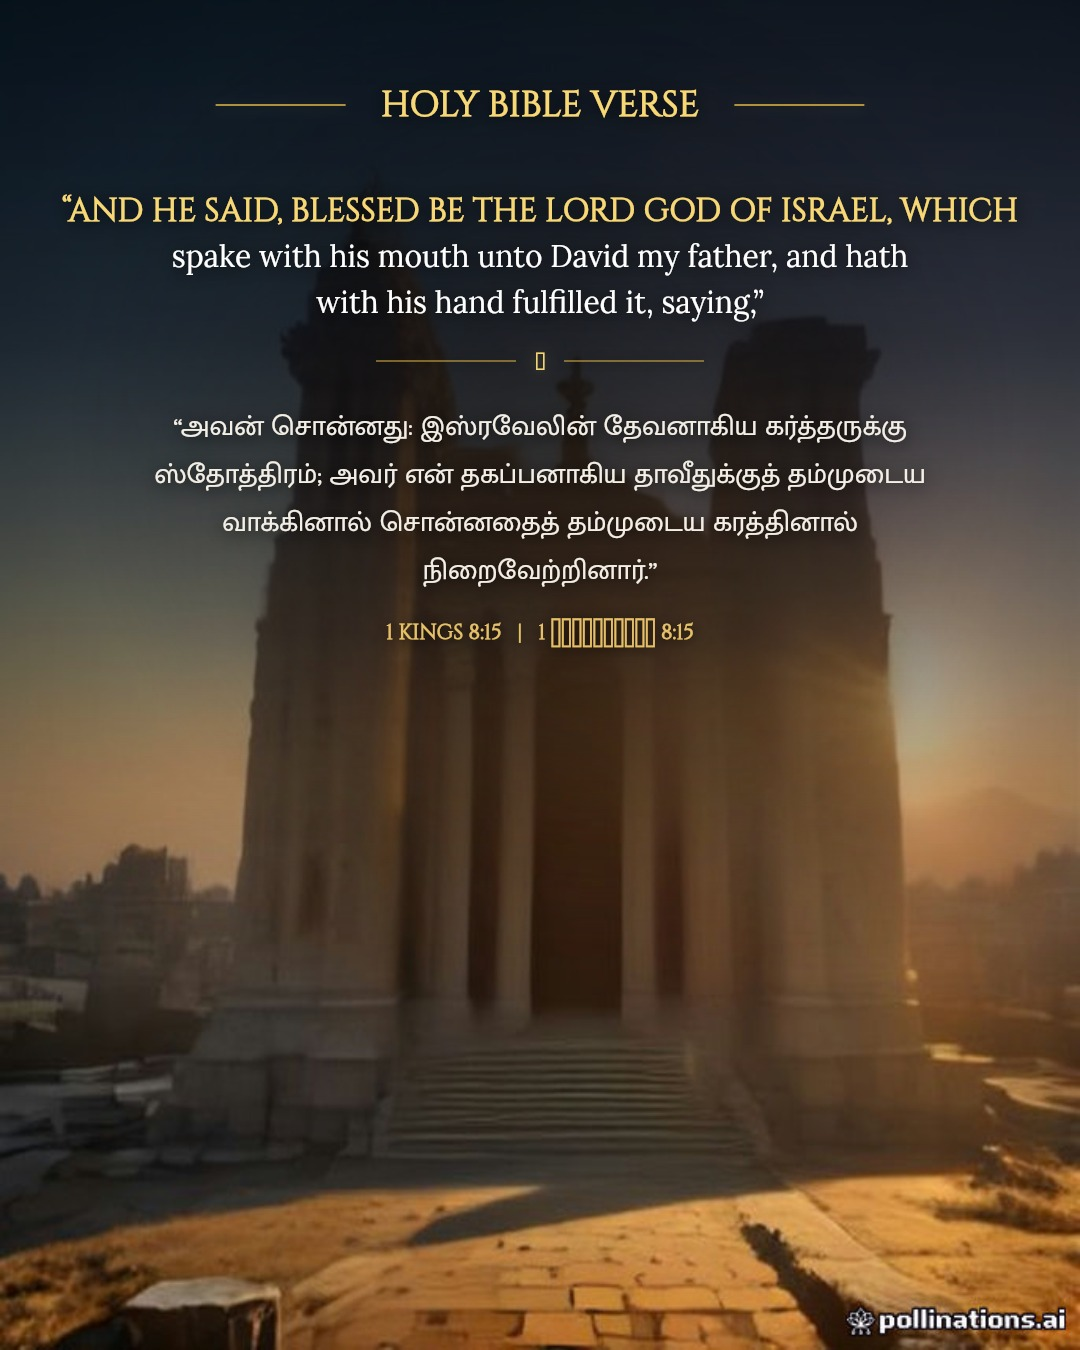
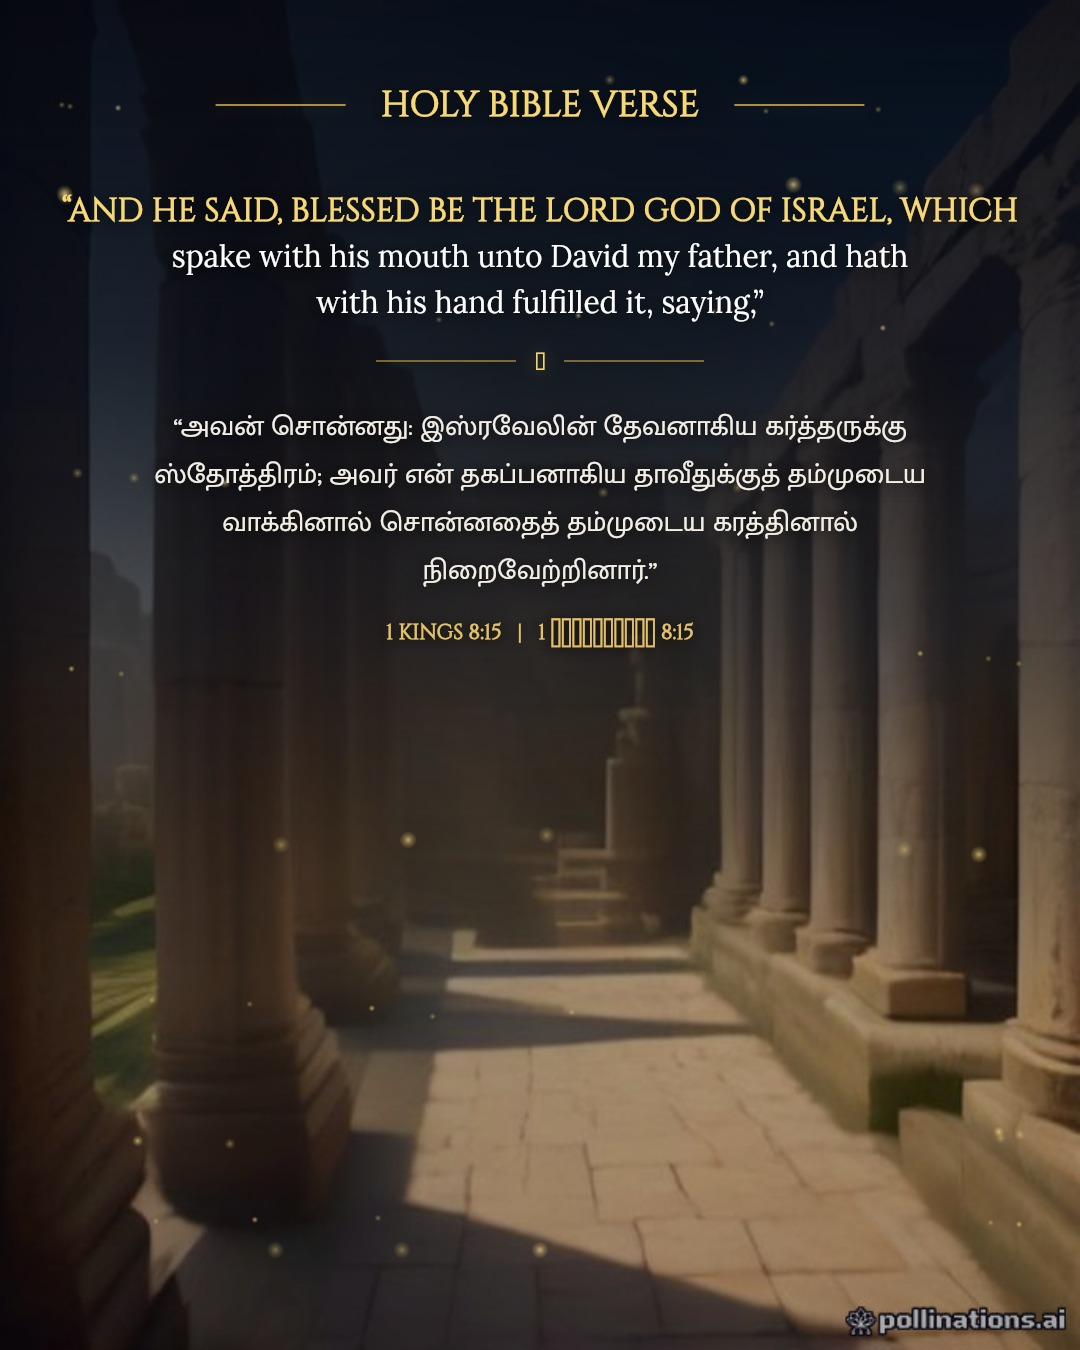
fix: resolved tagsString.split error and upgraded prompt engine to masterclass biblical architecture specification

diff --git a/services/geminiService.js b/services/geminiService.js
@@ -11,7 +11,7 @@ class GeminiService {
   }
 
   /**
-   * Generates custom verse-matched scene prompt, sacred highlights, and viral caption
+   * Generates custom verse-matched scene prompt matching user's exact masterclass specification
    */
   async analyzeVerse(verseData, language = 'both') {
     const scriptureText = language === 'ta'
@@ -22,7 +22,7 @@ class GeminiService {
 
     const reference = language === 'ta'
       ? verseData.referenceTa
-      : verseData.referenceEn.toUpperCase();
+      : `${verseData.referenceEn.toUpperCase()} | ${verseData.referenceTa}`;
 
     // If no API key is provided, return intelligent contextual fallback
     if (!this.apiKey) {
@@ -30,51 +30,53 @@ class GeminiService {
       return this._generateFallbackResponse(verseData, language);
     }
 
-    const systemPrompt = `You are a world-class Christian creative director and cinematic biblical illustrator.
-Given a Bible verse, carefully analyze its historical context, story, imagery, and sacred meaning.
-Generate a strict JSON response with:
-1. "imagePrompt": A highly detailed, realistic, cinematic 3D digital art prompt (4:5 vertical aspect ratio).
-   CRITICAL COMPOSITION RULES:
-   - LOWER HALF (bottom 50%): Must contain a breathtaking panoramic physical scene SPECIFIC TO THIS VERSE'S EXACT BIBLICAL THEME.
-     Examples:
-     * 1 Kings 8:15 -> "Panoramic view of ancient Solomon Temple in Jerusalem at golden hour sunrise, stone balustrade in foreground with a royal golden crown on blue velvet, glowing morning light illuminating stone columns and hills."
-     * Psalm 23 -> "Lush green rolling pastures of Judea at morning sunrise, crystal-clear still stream reflecting golden sky, ancient shepherd staff on a stone."
-     * Matthew 8 (Peace in storm) -> "Stormy Sea of Galilee with dramatic crashing waves parting around a wooden fishing boat bathed in a supernatural shaft of celestial golden light."
-     * John 3:16 / Cross -> "Majestic glowing radiant cross atop Mount Calvary at celestial dawn, rolling misty valleys below, ethereal golden god rays."
-     * Genesis 1 -> "Creation of light, dramatic planet earth forming in the cosmos with radiant golden light piercing primordial cosmic mist."
-     * Exodus 14 -> "Parted Red Sea towering like crystalline walls of water with the divine pillar of fire guiding the pathway."
-   - UPPER HALF (top 50%): Must consist of deep, dark, dramatic volumetric storm clouds with intense golden god rays breaking through, leaving clean negative space for centered typography.
-   - STYLE: "Cinematic lighting, god rays from top right, 8k resolution, photorealistic, rich warm golden hour colors, biblical masterpiece."
+    const systemPrompt = `You are an elite Christian creative director, theological scholar, and master biblical illustrator.
+Given a Bible verse, carefully study its exact historical context, spiritual meaning, and divine theme.
 
-2. "highlightEn": The key sacred words or divine blessing phrase to highlight in BOLD GOLD (e.g. "BLESSED BE THE LORD GOD OF ISRAEL", "THE LORD IS MY SHEPHERD", "FOR GOD SO LOVED THE WORLD", "I CAN DO ALL THINGS").
-3. "highlightTa": The corresponding sacred words or divine blessing phrase in Tamil to highlight in BOLD GOLD (e.g. "இஸ்ரவேலின் தேவனாகிய கர்த்தருக்கு ஸ்தோத்திரம்", "கர்த்தர் என் மேய்ப்பராயிருக்கிறார்", "தேவன் உலகத்தில் அன்புகூர்ந்தார்").
-4. "caption": A high-engagement, spiritually uplifting Instagram caption with verse takeaway and daily prayer.
-5. "trendingHashtags": 15-20 top trending Christian hashtags for Instagram.
+Generate a strict JSON response following this EXACT MASTERCLASS ARCHITECTURE:
+
+1. "imagePrompt": A highly detailed, photorealistic 8K text-to-image prompt (4:5 vertical aspect ratio).
+   MUST FOLLOW THESE STRICT CINEMATIC RULES:
+   - "BACKGROUND AND SPIRITUAL ATMOSPHERE: Create a breathtaking ancient biblical landscape inspired by [specific historical biblical location matching the verse - e.g. Solomon's Temple in Jerusalem, Mount Sinai, green pastures of Bethlehem, Sea of Galilee at sunrise, Garden of Gethsemane, ancient Roman road, celestial new Jerusalem]."
+   - "LOWER 45%: Show majestic biblical architecture or landscape in the distance, warm divine light illuminating the stone sanctuaries or peaceful waters, subtle floating golden light particles, distant misty mountains, and a peaceful sacred atmosphere representing God's faithfulness."
+   - "UPPER 55%: Deep dramatic dark navy blue and royal blue volumetric clouds with heavenly golden rays breaking through from the upper right, leaving deep dark clean negative space for scripture typography."
+   - "COLOR PALETTE: Cinematic combination of deep navy blue, royal blue, antique gold, and warm ivory. Photorealistic, reverent, majestic, spiritually uplifting, realistic volumetric lighting, extraordinary atmospheric depth."
+
+2. "highlightEn": The exact sacred phrase in the English verse to highlight in subtle golden lettering (e.g., "BLESSED BE THE LORD GOD OF ISRAEL", "THE LORD IS MY SHEPHERD", "FOR GOD SO LOVED THE WORLD", "I CAN DO ALL THINGS THROUGH CHRIST").
+
+3. "highlightTa": The corresponding exact sacred phrase in the Tamil verse to highlight in subtle golden lettering (e.g., "இஸ்ரவேலின் தேவனாகிய கர்த்தருக்கு ஸ்தோத்திரம்", "கர்த்தர் என் மேய்ப்பராயிருக்கிறார்", "தேவன் உலகத்தில் அன்புகூர்ந்தார்").
+
+4. "caption": An inspirational devotional takeaway connecting this verse to daily life, a reflection on God's promises, and a short heartfelt prayer.
+
+5. "trendingHashtags": A list of 15-20 top trending Christian hashtags for Instagram.
 
 Return ONLY the raw JSON object, without markdown code fences or explanation.`;
 
-    const userPrompt = `Verse Reference: ${verseData.referenceEn} (${verseData.referenceTa})
+    const userPrompt = `Verse Reference: ${verseData.referenceEn} | ${verseData.referenceTa}
 English Text: "${verseData.textEn}"
 Tamil Text: "${verseData.textTa}"
-Selected Language for Poster: ${language}`;
+Selected Language: ${language}`;
 
     try {
       const rawText = await this._callRestApi(systemPrompt, userPrompt);
       const cleanJson = rawText.replace(/```json/g, '').replace(/```/g, '').trim();
       const parsed = JSON.parse(cleanJson);
 
+      let tags = parsed.trendingHashtags || this._createDefaultHashtags(verseData);
+      const hashtagsString = Array.isArray(tags) ? tags.join(' ') : String(tags);
+
       const fullCaption = `${parsed.caption || this._createDefaultCaption(verseData)}\n\n` +
         `• • •\n` +
-        `${parsed.trendingHashtags || this._createDefaultHashtags(verseData)}`;
+        `${hashtagsString}`;
 
       return {
-        imagePrompt: parsed.imagePrompt,
+        imagePrompt: parsed.imagePrompt || this._generateScenePromptForVerse(verseData),
         highlightEn: parsed.highlightEn || this._detectHighlightEn(verseData.textEn),
         highlightTa: parsed.highlightTa || this._detectHighlightTa(verseData.textTa),
         referenceEn: verseData.referenceEn,
         referenceTa: verseData.referenceTa,
         captionText: parsed.caption || this._createDefaultCaption(verseData),
-        trendingHashtags: parsed.trendingHashtags || this._createDefaultHashtags(verseData),
+        trendingHashtags: hashtagsString,
         fullInstagramCaption: fullCaption,
         language
       };
@@ -121,13 +123,40 @@ Selected Language for Poster: ${language}`;
     throw lastErr || new Error('All Gemini model endpoints failed.');
   }
 
+  _generateScenePromptForVerse(verseData) {
+    const text = verseData.textEn.toLowerCase();
+    const ref = verseData.referenceEn.toLowerCase();
+
+    let theme = "ancient biblical landscape inspired by Solomon's Temple in Jerusalem";
+    let lowerSubject = "majestic ancient stone temple architecture in the distance, warm divine light illuminating the sanctuary, stone balcony foreground with royal golden crown on blue velvet";
+
+    if (/shepherd|pasture|waters|green/i.test(text) || ref.includes('psalm 23')) {
+      theme = "lush green rolling pastures of Judea at morning sunrise";
+      lowerSubject = "peaceful crystal still waters reflecting golden sky, ancient wooden shepherd staff on a stone, soft rolling hills";
+    } else if (/storm|sea|wind|wave|calm|boat/i.test(text) || ref.includes('mark 4') || ref.includes('matt 8')) {
+      theme = "dramatic Sea of Galilee with waves parting in divine peace";
+      lowerSubject = "ancient wooden fishing boat resting on calming water bathed in a direct shaft of celestial light, distant misty shores";
+    } else if (/cross|love|give|son|life|salvation/i.test(text) || ref.includes('john 3')) {
+      theme = "sacred Mount Calvary at dawn of redemption";
+      lowerSubject = "majestic glowing celestial cross atop a distant hill, ethereal golden light illuminating the valley below";
+    } else if (/eagle|strength|mount|wings/i.test(text) || ref.includes('isaiah 40')) {
+      theme = "majestic mountain summits of Israel with eagles soaring";
+      lowerSubject = "towering ancient cedar trees, soaring golden eagle above mountain peaks, glorious morning mist";
+    } else if (/lion|den|faith/i.test(text) || ref.includes('daniel')) {
+      theme = "ancient stone hall of Babylon illuminated by heavenly light";
+      lowerSubject = "peaceful majestic lions resting in an ancient stone cavern, bathed in holy divine beam";
+    }
+
+    return `Create a breathtaking ancient biblical landscape inspired by ${theme}. Show ${lowerSubject} in the lower 45%. Upper 55% shows dramatic dark navy blue and royal blue volumetric clouds with heavenly golden sun rays breaking through, subtle floating golden particles, distant mountains, and a peaceful sacred atmosphere representing God's faithfulness and fulfilled promises. Use a cinematic combination of deep navy blue, royal blue, antique gold, and warm ivory. Photorealistic, reverent, majestic, 8k resolution, vertical 4:5 portrait.`;
+  }
+
   _detectHighlightEn(text) {
-    const match = text.match(/\b(Blessed be the LORD God of Israel|Blessed be the LORD|The LORD is my shepherd|For God so loved the world|I can do all things through Christ|Trust in the LORD with all thine heart)\b/i);
-    return match ? match[0] : 'BLESSED BE THE LORD GOD OF ISRAEL';
+    const match = text.match(/\b(BLESSED BE THE LORD GOD OF ISRAEL|Blessed be the LORD God of Israel|Blessed be the LORD|The LORD is my shepherd|For God so loved the world|I can do all things through Christ|Trust in the LORD with all thine heart|Thy word is a lamp unto my feet|Be strong and of a good courage)\b/i);
+    return match ? match[0].toUpperCase() : 'BLESSED BE THE LORD GOD OF ISRAEL';
   }
 
   _detectHighlightTa(text) {
-    const match = text.match(/(இஸ்ரவேலின் தேவனாகிய கர்த்தருக்கு ஸ்தோத்திரம்|கர்த்தருக்கு ஸ்தோத்திரம்|கர்த்தர் என் மேய்ப்பராயிருக்கிறார்|தேவன் உலகத்தில் அன்புகூர்ந்தார்)/);
+    const match = text.match(/(இஸ்ரவேலின் தேவனாகிய கர்த்தருக்கு ஸ்தோத்திரம்|கர்த்தருக்கு ஸ்தோத்திரம்|கர்த்தர் என் மேய்ப்பராயிருக்கிறார்|தேவன் உலகத்தில் அன்புகூர்ந்தார்|தேவன் நமக்கு அடைக்கலமும் பலனுமானவர்)/);
     return match ? match[0] : 'இஸ்ரவேலின் தேவனாகிய கர்த்தருக்கு ஸ்தோத்திரம்';
   }
 
@@ -145,12 +174,14 @@ Selected Language for Poster: ${language}`;
   }
 
   _generateFallbackResponse(verseData, language) {
-    const prompt = `Cinematic photo of ancient Solomon Temple in Jerusalem at golden hour sunrise, stone balustrade foreground with royal golden crown on blue velvet cloth, dramatic volumetric clouds in dark sky at top, photorealistic 8k, majestic biblical art`;
+    const scenePrompt = this._generateScenePromptForVerse(verseData);
+    const highlightEn = this._detectHighlightEn(verseData.textEn);
+    const highlightTa = this._detectHighlightTa(verseData.textTa);
 
     return {
-      imagePrompt: prompt,
-      highlightEn: this._detectHighlightEn(verseData.textEn),
-      highlightTa: this._detectHighlightTa(verseData.textTa),
+      imagePrompt: scenePrompt,
+      highlightEn: highlightEn,
+      highlightTa: highlightTa,
       referenceEn: verseData.referenceEn,
       referenceTa: verseData.referenceTa,
       captionText: this._createDefaultCaption(verseData),

diff --git a/services/posterEngine.js b/services/posterEngine.js
@@ -98,6 +98,9 @@ class PosterEngine {
     // 2. Cinematic Gradient Overlay (Dark in upper half for text legibility, transparent in lower half for scenery)
     this._applyCinematicTopOverlay(ctx, width, height);
 
+    // Floating Golden Divine Particles
+    this._renderDivineGoldenParticles(ctx, width, height);
+
     // 3. Header: — HOLY BIBLE VERSE —
     this._renderHeader(ctx, width, 105);
 
@@ -213,11 +216,19 @@ class PosterEngine {
   _applyCinematicTopOverlay(ctx, width, height) {
     ctx.save();
 
-    // Soft dark gradient focused on the upper half
+    // Deep royal navy blue atmosphere tint
+    const tintGrad = ctx.createLinearGradient(0, 0, width, height);
+    tintGrad.addColorStop(0, 'rgba(8, 14, 28, 0.42)');
+    tintGrad.addColorStop(0.5, 'rgba(12, 18, 38, 0.28)');
+    tintGrad.addColorStop(1, 'rgba(6, 8, 16, 0.35)');
+    ctx.fillStyle = tintGrad;
+    ctx.fillRect(0, 0, width, height);
+
+    // Soft dark gradient focused on the upper half for crisp text contrast
     const topGrad = ctx.createLinearGradient(0, 0, 0, height * 0.72);
-    topGrad.addColorStop(0, 'rgba(4, 7, 14, 0.82)');
-    topGrad.addColorStop(0.35, 'rgba(6, 10, 20, 0.72)');
-    topGrad.addColorStop(0.65, 'rgba(8, 12, 22, 0.45)');
+    topGrad.addColorStop(0, 'rgba(4, 8, 18, 0.90)');
+    topGrad.addColorStop(0.35, 'rgba(6, 12, 26, 0.78)');
+    topGrad.addColorStop(0.65, 'rgba(8, 14, 28, 0.50)');
     topGrad.addColorStop(0.88, 'rgba(0, 0, 0, 0.15)');
     topGrad.addColorStop(1, 'rgba(0, 0, 0, 0)');
     ctx.fillStyle = topGrad;
@@ -226,13 +237,37 @@ class PosterEngine {
     // Subtle radial spotlight behind center text
     const centerGlow = ctx.createRadialGradient(
       width / 2, 420, 50,
-      width / 2, 420, 480
+      width / 2, 420, 500
     );
-    centerGlow.addColorStop(0, 'rgba(0, 0, 0, 0.35)');
+    centerGlow.addColorStop(0, 'rgba(0, 0, 0, 0.32)');
     centerGlow.addColorStop(1, 'rgba(0, 0, 0, 0)');
     ctx.fillStyle = centerGlow;
     ctx.fillRect(0, 0, width, height * 0.7);
 
+    ctx.restore();
+  }
+
+  /**
+   * Delicate floating golden light particles (divine bokeh)
+   */
+  _renderDivineGoldenParticles(ctx, width, height) {
+    ctx.save();
+    for (let i = 0; i < 50; i++) {
+      const x = ((Math.sin(i * 123.45) * 0.5 + 0.5) * (width - 120)) + 60;
+      const y = ((Math.cos(i * 87.65) * 0.5 + 0.5) * (height - 180)) + 80;
+      const radius = (i % 4 === 0) ? 2.5 : (i % 2 === 0) ? 1.6 : 1.0;
+      const alpha = (i % 3 === 0) ? 0.65 : 0.38;
+
+      const grad = ctx.createRadialGradient(x, y, 0, x, y, radius * 3.5);
+      grad.addColorStop(0, `rgba(255, 238, 175, ${alpha})`);
+      grad.addColorStop(0.5, `rgba(248, 215, 117, ${alpha * 0.45})`);
+      grad.addColorStop(1, 'rgba(248, 215, 117, 0)');
+
+      ctx.fillStyle = grad;
+      ctx.beginPath();
+      ctx.arc(x, y, radius * 3.5, 0, Math.PI * 2);
+      ctx.fill();
+    }
     ctx.restore();
   }
 

diff --git a/public/app.js b/public/app.js
@@ -168,8 +168,8 @@ async function handleGeneratePoster() {
     captionBox.value = fullCaption;
 
     // Update Hashtags Cloud
-    const tagsString = job.trendingHashtags || job.aiAnalysis?.trendingHashtags || '';
-    updateHashtagChips(tagsString);
+    const rawTags = job.trendingHashtags || job.aiAnalysis?.trendingHashtags || '';
+    updateHashtagChips(rawTags);
 
     // Update Download Button
     btnDownload.href = imageSource;
@@ -218,13 +218,20 @@ async function handleCopyCaption() {
   }
 }
 
-function updateHashtagChips(tagsString) {
-  if (!tagsString || !hashtagsCloud) return;
-  const tags = tagsString.split(/\s+/).filter(t => t.startsWith('#'));
+function updateHashtagChips(tagsInput) {
+  if (!tagsInput || !hashtagsCloud) return;
+  let tags = [];
+  if (Array.isArray(tagsInput)) {
+    tags = tagsInput.map(t => String(t).trim()).filter(t => t.length > 0).map(t => t.startsWith('#') ? t : `#${t}`);
+  } else if (typeof tagsInput === 'string') {
+    tags = tagsInput.split(/\s+/).filter(t => t.startsWith('#'));
+  } else {
+    return;
+  }
   if (tags.length === 0) return;
 
   hashtagsCloud.innerHTML = '';
-  tags.forEach(tag => {
+  tags.slice(0, 15).forEach(tag => {
     const span = document.createElement('span');
     span.className = 'htag';
     span.textContent = tag;

diff --git a/services/imageService.js b/services/imageService.js
@@ -42,9 +42,9 @@ class ImageService {
    * Pollinations AI (Photorealistic 1080x1350 vertical cinematic artwork)
    */
   async _generateWithPollinations(prompt) {
-    // Clean and encode prompt
-    const enhancedPrompt = `${prompt}, aspect ratio 4:5 vertical portrait, cinematic lighting, 8k resolution, photorealistic, majestic biblical digital art, upper half dark clouds with god rays, lower half detailed panoramic scenery`;
-    const encoded = encodeURIComponent(enhancedPrompt.slice(0, 400));
+    // Clean and encode prompt with exact masterclass visual cues
+    const enhancedPrompt = `${prompt}, aspect ratio 4:5 vertical portrait, cinematic lighting, deep navy blue, royal blue, antique gold and warm ivory, photorealistic 8k, reverent sacred biblical digital art, upper half dark navy clouds with god rays, lower half majestic panoramic scenery, volumetric lighting`;
+    const encoded = encodeURIComponent(enhancedPrompt.slice(0, 480));
     const seed = Math.floor(Math.random() * 999999);
     const url = `https://image.pollinations.ai/prompt/${encoded}?width=1080&height=1350&nologo=true&seed=${seed}&model=flux`;
 
